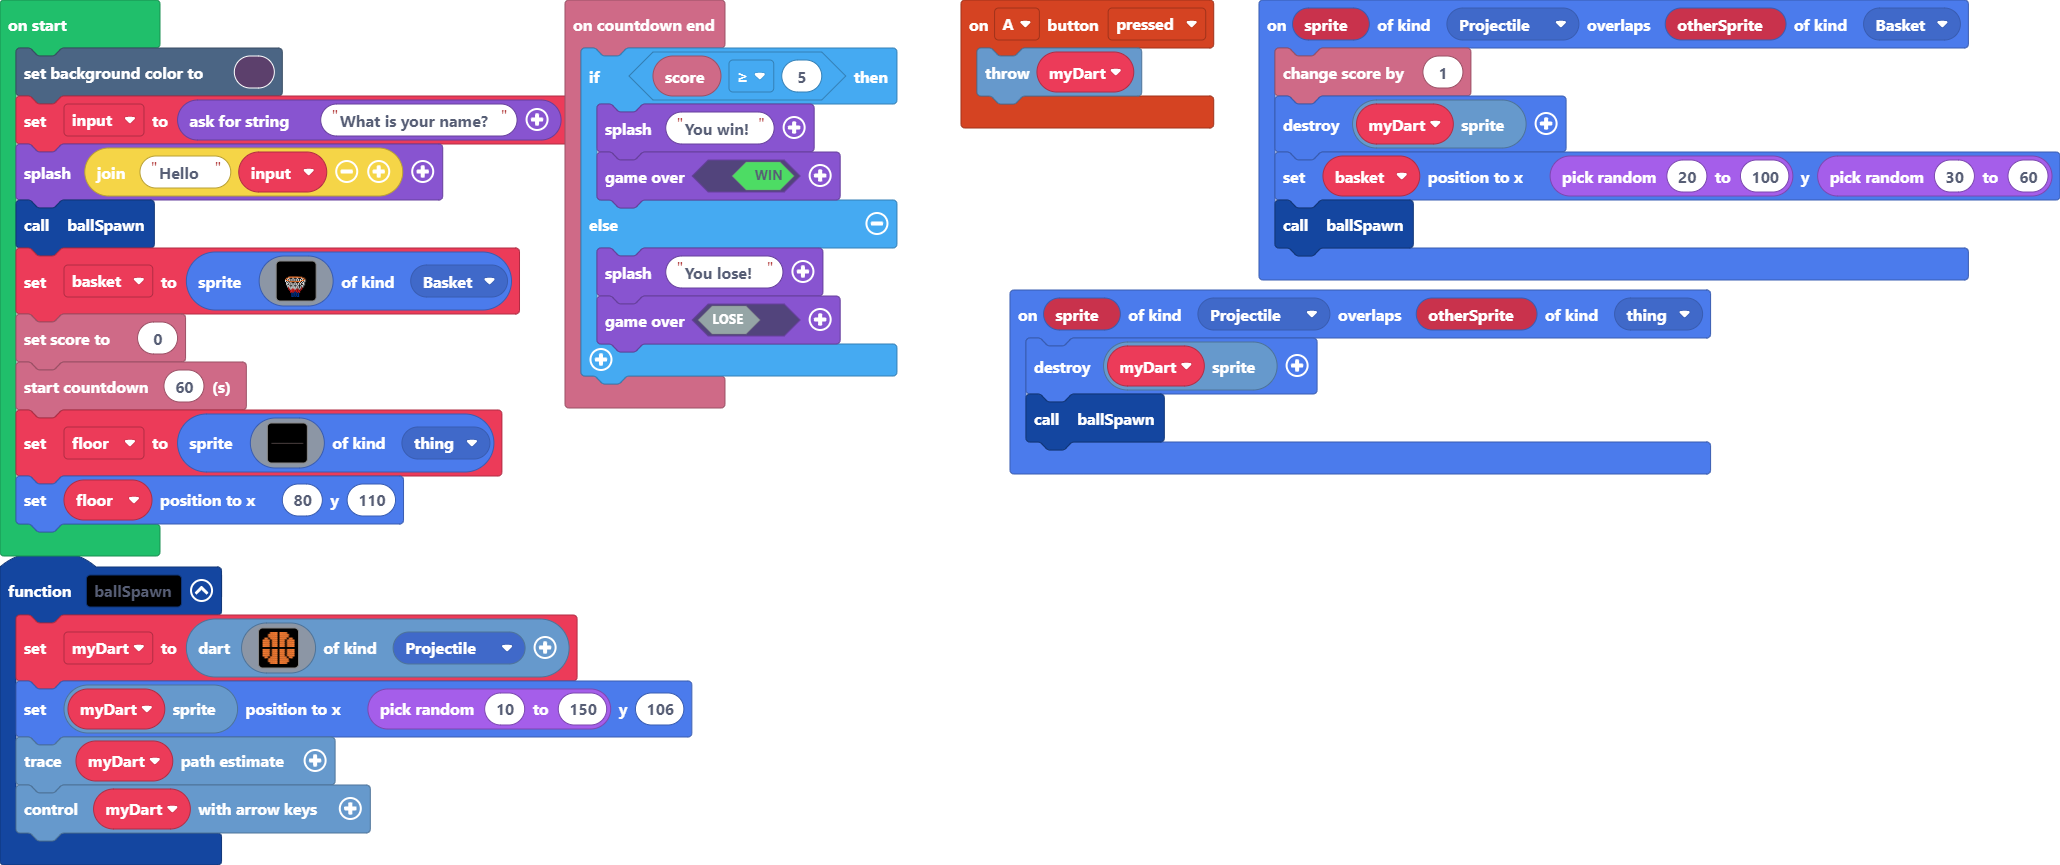
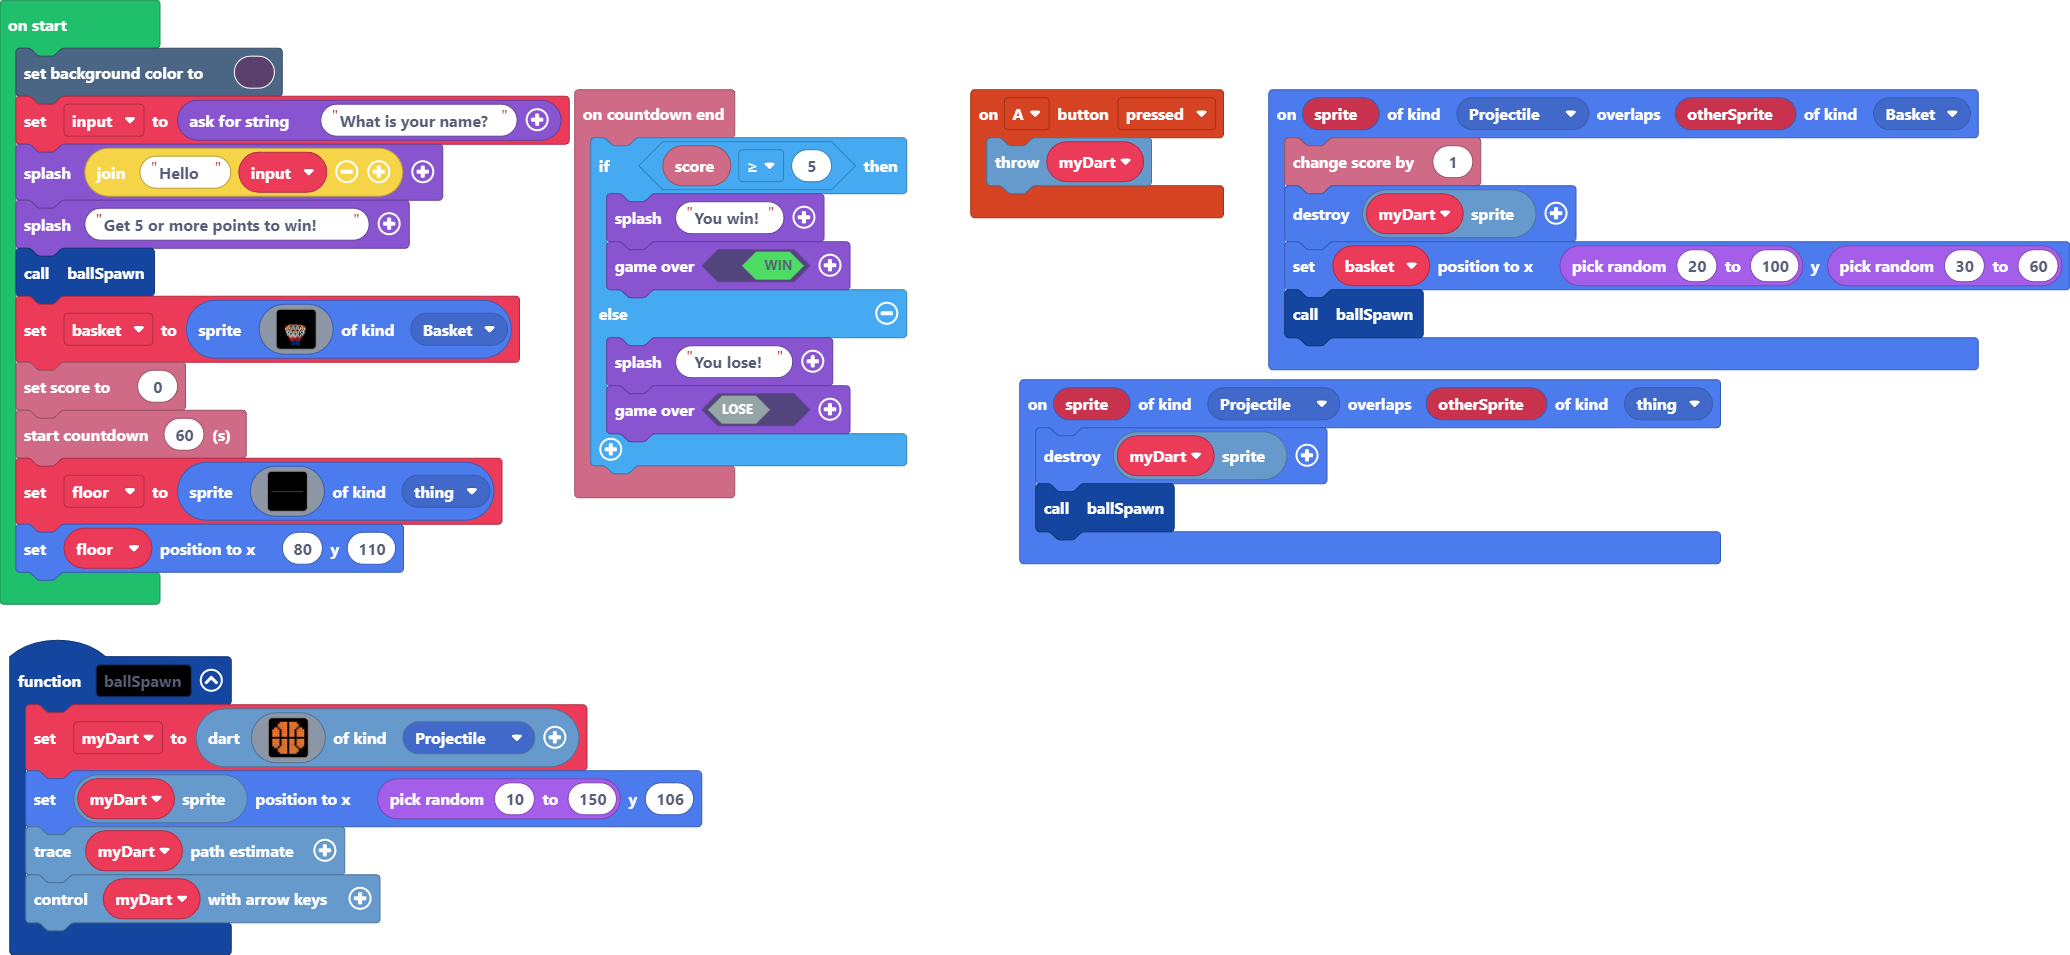
Update main.blocks, main.ts

diff --git a/main.ts b/main.ts
@@ -53,6 +53,7 @@ let basket: Sprite = null
 scene.setBackgroundColor(12)
 let input2 = game.askForString("What is your name?")
 game.splash("Hello " + input2)
+game.splash("Get 5 or more points to win!")
 ballSpawn()
 basket = sprites.create(img`
     ...................
